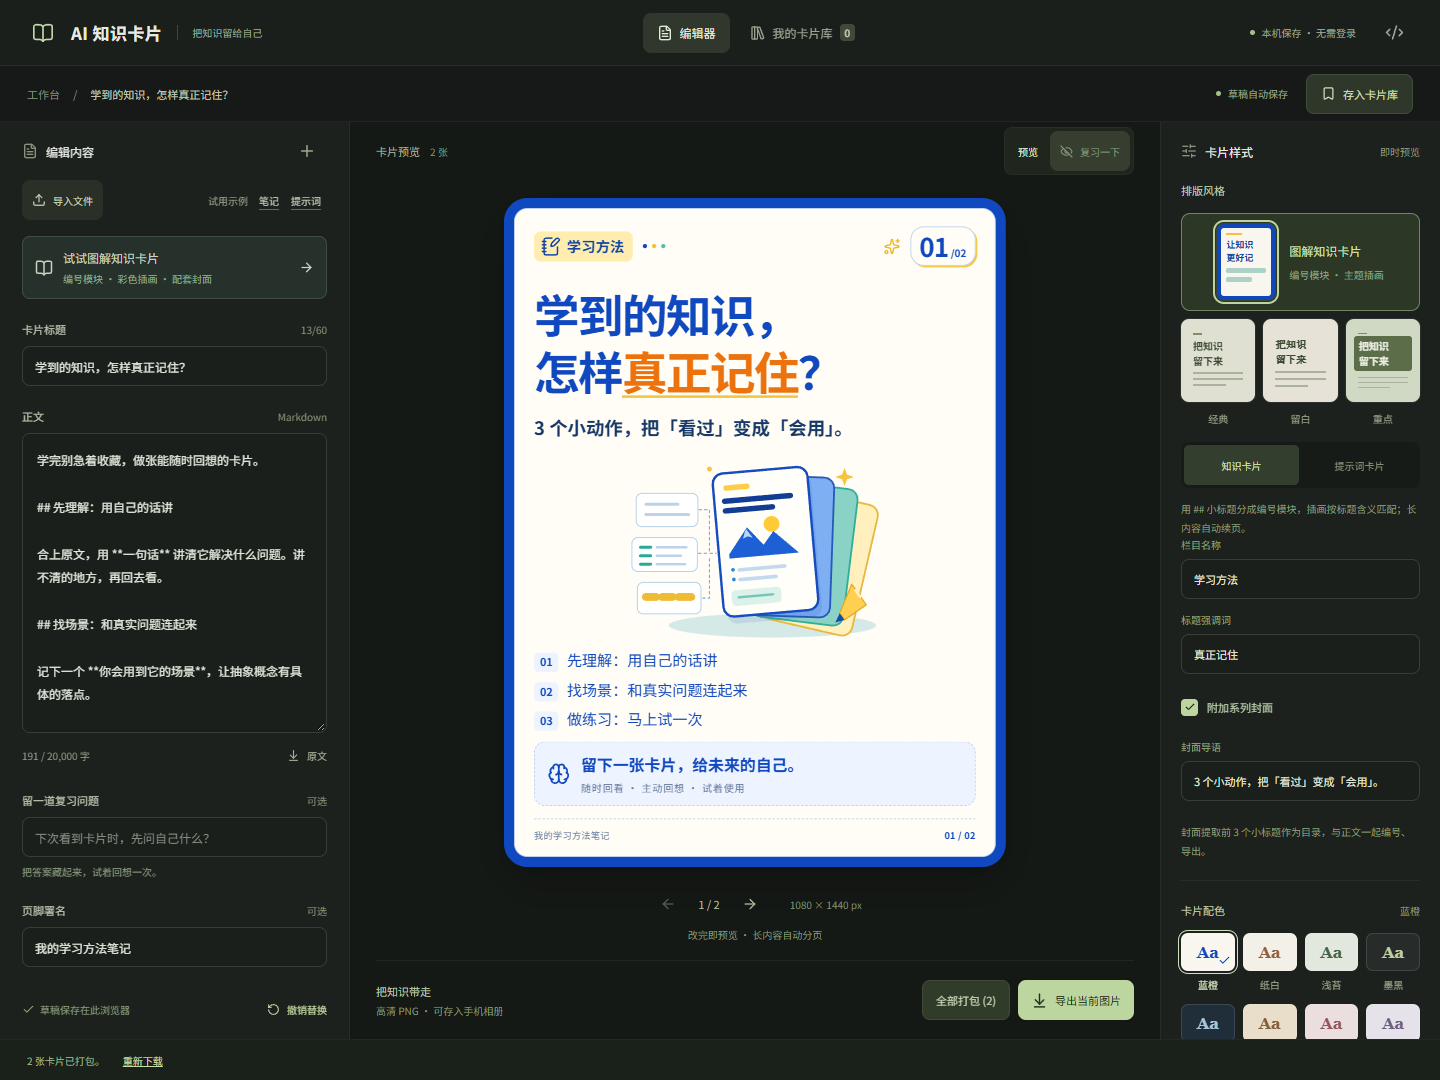
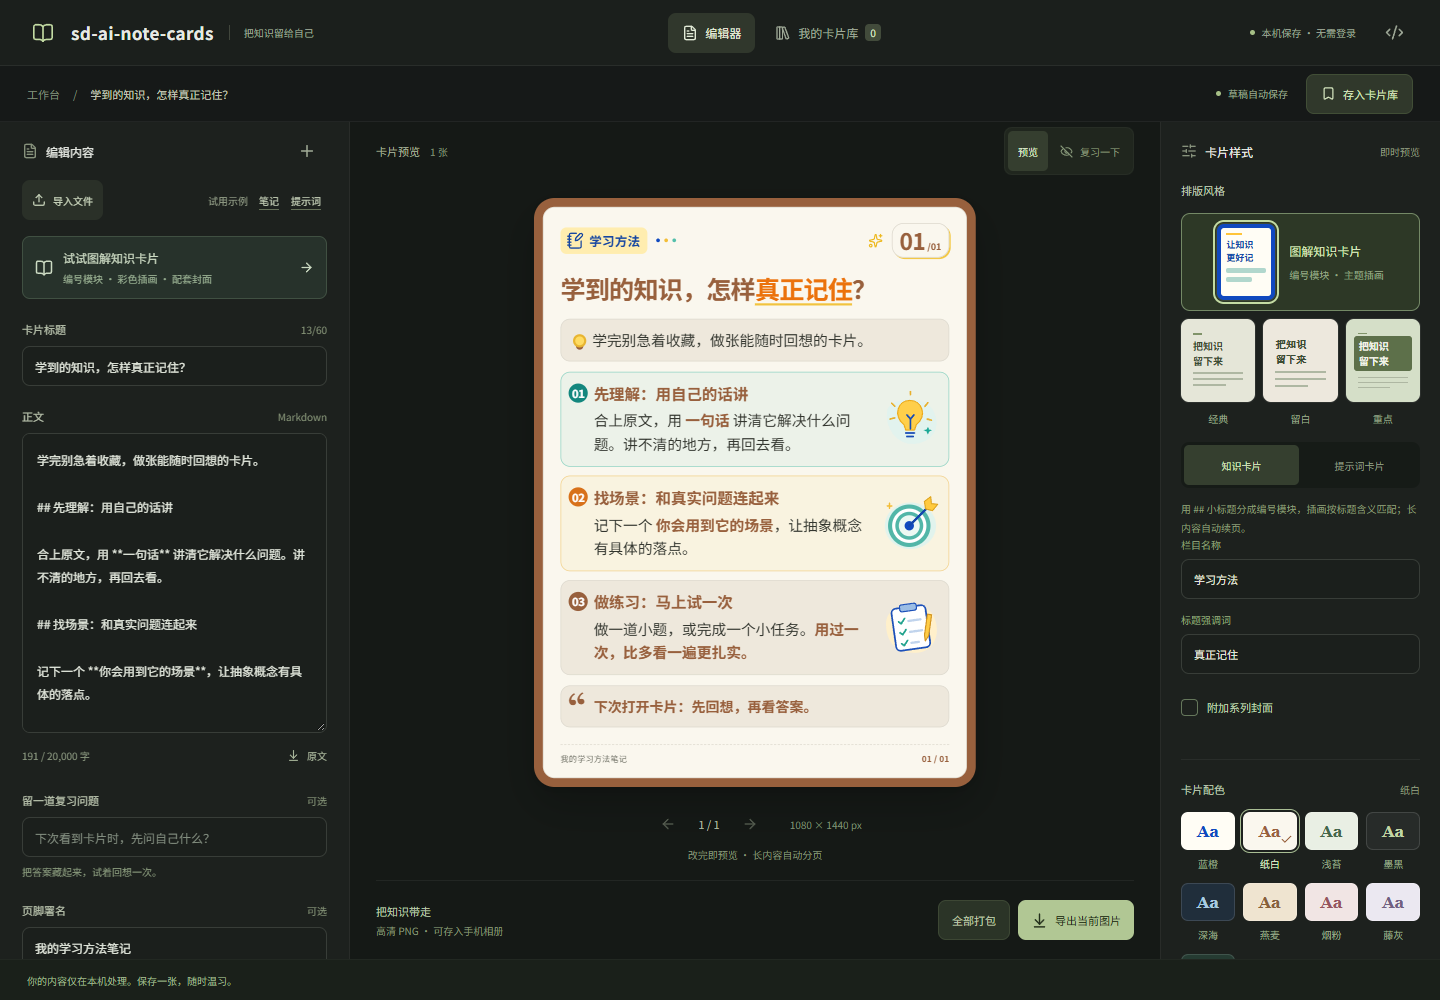
Rename project to sd-ai-note-cards and update public links

diff --git a/src/App.tsx b/src/App.tsx
@@ -10,7 +10,7 @@ import { markdownBlocks, paginate } from './markdown';
 import { embedFonts, waitForFonts } from './fonts';
 import styles from './App.module.css';
 
-const repo = 'https://github.com/Allensen/ai-note-cards';
+const repo = 'https://github.com/Allensen/sd-ai-note-cards';
 const nextFrame = () => new Promise<void>(resolve => requestAnimationFrame(() => resolve()));
 function filename(title: string) { return (title.trim() || '知识卡片').replace(/[\\/:*?"<>|\u0000-\u001f]/g, '_').slice(0, 70); }
 function download(blob: Blob, name: string) {
@@ -179,7 +179,7 @@ export function App() {
   return <div className={styles.app}>
     <a href="#editor" className={styles.skip} onClick={() => { setView('editor'); setMobileTab('edit'); }}>跳到编辑区</a>
     <header className={styles.topbar}>
-      <button className={styles.brand} onClick={() => setView('editor')} aria-label="AI 知识卡片，返回编辑器"><span className={styles.mark}><BookOpen size={22} strokeWidth={1.8} /></span><strong>AI 知识卡片</strong><span className={styles.brandTag}>把知识留给自己</span></button>
+      <button className={styles.brand} onClick={() => setView('editor')} aria-label="sd-ai-note-cards，返回编辑器"><span className={styles.mark}><BookOpen size={22} strokeWidth={1.8} /></span><strong>sd-ai-note-cards</strong><span className={styles.brandTag}>把知识留给自己</span></button>
       <nav className={styles.topNav} aria-label="主导航"><button aria-current={view === 'editor' ? 'page' : undefined} onClick={() => setView('editor')}><FileText size={16} />编辑器</button><button aria-current={view === 'library' ? 'page' : undefined} onClick={() => setView('library')} disabled={!!busy}><LibraryBig size={16} />我的卡片库<span>{library.length}</span></button></nav>
       <div className={styles.topActions}><span className={styles.local}><i />本机保存 · 无需登录</span><a href={repo} target="_blank" rel="noreferrer" aria-label="GitHub 源码仓库"><Code2 size={19} /></a></div>
     </header>

diff --git a/public/404.html b/public/404.html
@@ -1,1 +1,1 @@
-<!doctype html><html lang="zh-CN"><meta charset="utf-8"><meta name="viewport" content="width=device-width,initial-scale=1"><meta name="theme-color" content="#151916"><title>页面未找到 · AI 知识卡片</title><body style="background:#151916;color:#e7eae4;font-family:system-ui;padding:15vh 8vw;line-height:1.8"><p style="color:#9caf8c">AI 知识卡片 / 404</p><h1>这张页面还没有内容</h1><p>地址可能已经改变。回到工作台，继续整理你的知识。</p><a href="/ai-note-cards/" style="color:#c3dba3;display:inline-block;padding:12px 0">打开 AI 知识卡片 →</a></body></html>
+<!doctype html><html lang="zh-CN"><meta charset="utf-8"><meta name="viewport" content="width=device-width,initial-scale=1"><meta name="theme-color" content="#151916"><title>页面未找到 · sd-ai-note-cards</title><body style="background:#151916;color:#e7eae4;font-family:system-ui;padding:15vh 8vw;line-height:1.8"><p style="color:#9caf8c">sd-ai-note-cards / 404</p><h1>这张页面还没有内容</h1><p>地址可能已经改变。回到工作台，继续整理你的知识。</p><a href="/sd-ai-note-cards/" style="color:#c3dba3;display:inline-block;padding:12px 0">打开 sd-ai-note-cards →</a></body></html>

diff --git a/index.html b/index.html
@@ -4,8 +4,8 @@
     <meta charset="UTF-8" />
     <meta name="viewport" content="width=device-width, initial-scale=1.0" />
     <meta name="theme-color" content="#151916" />
-    <meta name="description" content="把 AI 回答、学习笔记整理成方便温习的中文卡片。三种字体、八套配色、本地卡片库和复习模式，免登录制作与导出。" />
-    <title>AI 知识卡片 · 把有用的回答留下来</title>
+    <meta name="description" content="sd-ai-note-cards：把 AI 回答、学习笔记整理成方便温习的中文卡片。三种字体、九套配色、图解模板与复习模式，免登录制作与导出。" />
+    <title>sd-ai-note-cards · AI 知识卡片</title>
   </head>
   <body>
     <div id="root"></div>

diff --git a/src/model.ts b/src/model.ts
@@ -35,6 +35,7 @@ export interface Draft {
 }
 export interface SavedCard { id: string; draft: Draft; updatedAt: number; reviewedAt: number | null; }
 export const MAX_CONTENT = 20000;
+// Keep the original keys so the project rename preserves existing browser data.
 export const STORAGE_KEY = 'ai-note-cards:draft:v1';
 export const LIBRARY_KEY = 'ai-note-cards:library:v1';
 export const sample: Draft = {

diff --git a/README.md b/README.md
@@ -1,16 +1,16 @@
-# AI 知识卡片
+# sd-ai-note-cards
 
 把 AI 回答、学习笔记和常用提示词，整理成方便保存、复习与分享的中文卡片。
 
-这是 Allensen 的独立开源项目。面向所有想把有用内容留下来的人，暂用「AI 知识卡片」作为工作名。无需模型 API 密钥，无需登录，编辑和图片导出在浏览器中完成。
+sd-ai-note-cards 是 Allensen 的独立开源知识卡片工具，面向所有想把有用内容留下来的人。无需模型 API 密钥，无需登录，编辑和图片导出在浏览器中完成。
 
-- **在线工具**：https://Allensen.github.io/ai-note-cards/
-- **源码仓库**：https://github.com/Allensen/ai-note-cards
-- **反馈与功能建议**：https://github.com/Allensen/ai-note-cards/issues
+- **直接在线使用**：[打开 sd-ai-note-cards](https://allensen.github.io/sd-ai-note-cards/)
+- **源码仓库**：https://github.com/Allensen/sd-ai-note-cards
+- **反馈与功能建议**：https://github.com/Allensen/sd-ai-note-cards/issues
 
-在线工具用于直接制作卡片；源码仓库用于下载、修改、查看版本和反馈。
+在线工具托管在 GitHub Pages，观众可以直接在自己的电脑或手机打开，无需安装开发环境，也不依赖作者电脑开机。源码仓库用于下载、修改、查看版本和反馈。卡片保存在访问者自己的浏览器中，跨设备使用可通过卡片库备份与恢复迁移。
 
-![AI 知识卡片工作台预览](docs/preview.png)
+![sd-ai-note-cards 工作台预览](docs/preview.png)
 
 ## v0.4：图解知识卡片
 
@@ -40,7 +40,9 @@
 
 它沿用基础版的主题、分页、字体嵌入和导出。基础版已经可以收藏提示词文本；本次新增的是专用版式和两类内容的视觉区分。
 
-## 本地运行
+## 开发者本地运行
+
+普通使用者直接打开上方在线工具即可。以下地址是开发预览，`127.0.0.1` 只表示运行命令的这台电脑，不能作为观众的访问入口。
 
 建议 Node.js 22 LTS 或更新版本（本地也在 Node 20.20.2 验证）。
 
